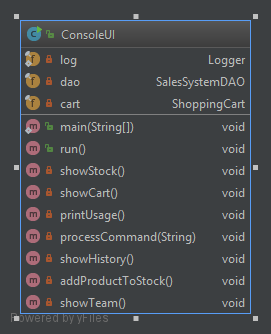
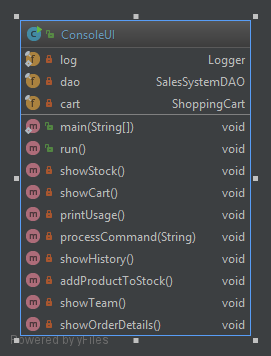
UML update

Changed region(s): [[0.0295, 0.0299, 0.9446, 0.9581], [0.5609, 0.1497, 0.9151, 0.8683]]

diff --git a/SaleSystemCLI/src/main/java/ee/ut/math/tvt/salessystem/ui/ConsoleUI.java b/SaleSystemCLI/src/main/java/ee/ut/math/tvt/salessystem/ui/ConsoleUI.java
@@ -128,4 +128,7 @@ public class ConsoleUI {
     private void showTeam() {
     }
 
+    private void showOrderDetails() {
+    }
+
 }
